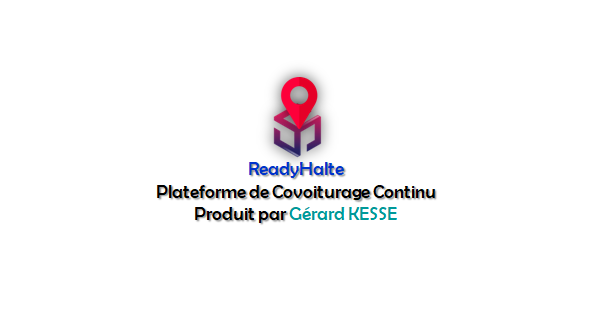
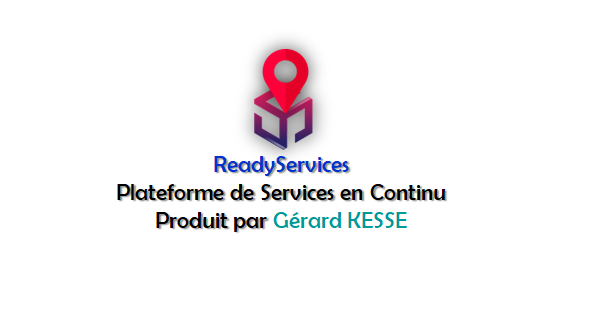
module site

Changed region(s): [[0.18, 0.1212, 0.75, 0.697]]

diff --git a/src/php/class/GApp.php b/src/php/class/GApp.php
@@ -8,9 +8,10 @@ class GApp extends GObject {
     //===============================================
     public function toDescription() {
         $lData = "";
-        $lData .= sprintf("Avec ReadyHalte, Choisissez un trajet\n");
-        $lData .= sprintf("et voyagez partout où vous voulez dès aujourd'hui.\n");
-        $lData .= sprintf("Plateforme de Covoiturage Continu.\n");
+        $lData .= sprintf("Avec ReadyServices, Recherchez ou Proposez\n");
+        $lData .= sprintf("gratuitement un service et Gagnez très rapidement de la clientèle\n");
+        $lData .= sprintf("dès aujourd'hui peu importe où vous êtes.\n");
+        $lData .= sprintf("Plateforme de Services en Continu.\n");
         $lData .= sprintf("Produit par Gérard KESSE.\n");
         return $lData;
     }
@@ -32,7 +33,7 @@ class GApp extends GObject {
     }
     //===============================================
     public function toSiteName() {
-        return "ReadyHalte";
+        return "ReadyServices";
     }
     //===============================================
     public function isTestEnv() {

diff --git a/src/php/class/GHeaderUi.php b/src/php/class/GHeaderUi.php
@@ -12,7 +12,7 @@ class GHeaderUi extends GObject {
         //
         echo sprintf("<a class='Header3' href='/'>\n");
         echo sprintf("<img class='Header4' src='/data/img/icon.png'/>\n");
-        echo sprintf("<div class='Header5'>ReadyHalte</div>\n");
+        echo sprintf("<div class='Header5'>ReadyServices</div>\n");
         echo sprintf("</a>\n");
         //
         echo sprintf("<div class='Header6'>\n");

diff --git a/src/index.php b/src/index.php
@@ -13,7 +13,7 @@ echo sprintf("<html lang='fr'>\n");
 echo sprintf("<head>\n");
 //===============================================
 // title
-echo sprintf("<title>ReadyHalte</title>\n");
+echo sprintf("<title>%s</title>\n", $lApp->toTitle());
 // logo
 echo sprintf("<link rel='icon' type='image/x-icon' href='/data/img/logo.png'>\n");
 // viewport
